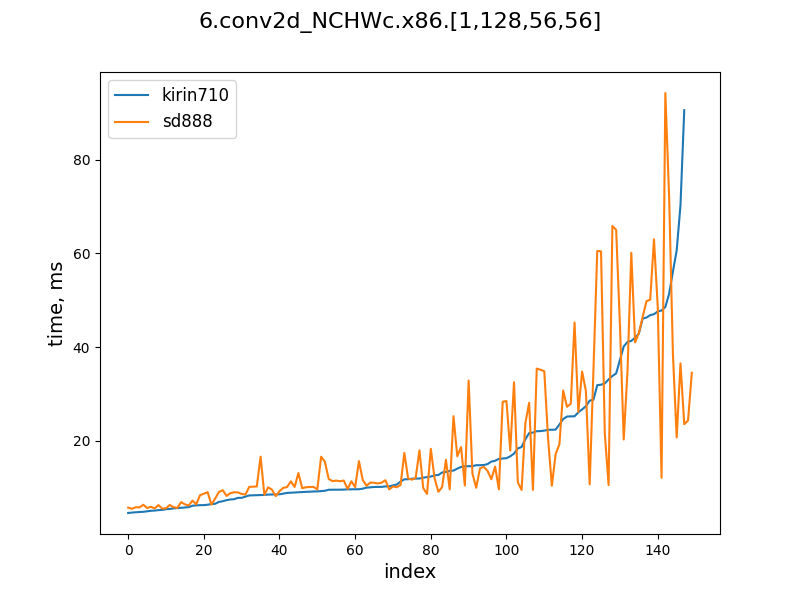
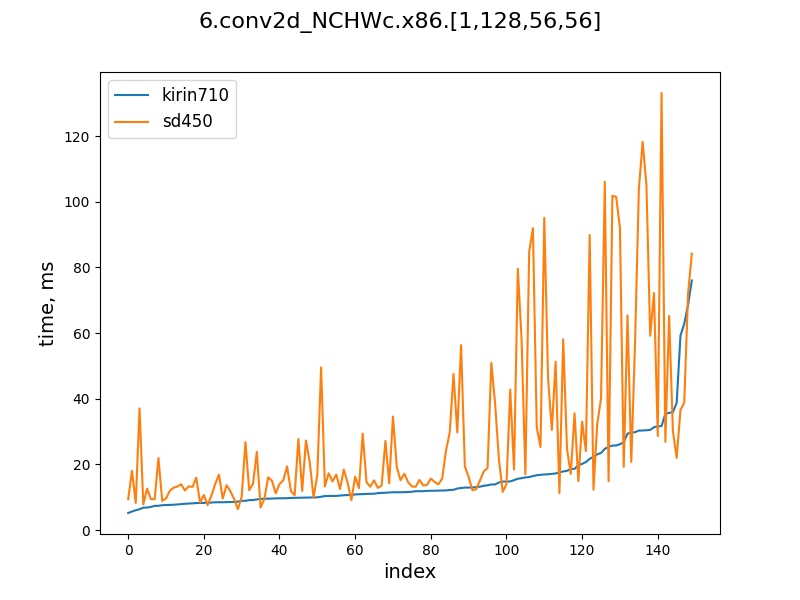
config-overlay mesure mode done

diff --git a/src/ferule/config_overlay/dispatcher.py b/src/ferule/config_overlay/dispatcher.py
@@ -13,6 +13,10 @@ from tvm.target import Target
 from ..model_importer import ModelImporter
 
 
+def tupleit(t):
+    return tuple(map(tupleit, t)) if isinstance(t, (list, tuple)) else t
+
+
 class Tuner(Enum):
     UNKNOWN = "unknown",
     ATVM = "atvm",
@@ -33,14 +37,11 @@ class Layer:
             input = self.configs[0]['input']
             target, task_name, args, _ = input
             
-            data, kernel, strides, padding, dilation, data_layout, _, dtype = args
-            data = relay.var("data", shape=data[1], dtype=dtype)
-            kernel_size = (kernel[1][2], kernel[1][3]) if data_layout == "NCHW" else (kernel[1][1], kernel[1][2])
-            kernel = relay.var("kernel", shape=kernel[1], dtype=dtype)
-
-            self.out = relay.nn.conv2d(data, kernel, strides=strides, padding=padding, dilation=dilation, kernel_size=kernel_size, 
-                data_layout=data_layout, out_dtype=dtype)
-            self.mod = IRModule.from_expr(self.out)
+            args = tupleit(args)
+            for task in self.hf.tasks:
+                if args == task.__dict__['args']:
+                    self.task: autotvm.task.task.Task = task
+                    return
         
         elif self.tuner == Tuner.ANSOR:
             workload_key, target, _, target_host, _, _ = self.configs[0]['i'][0]
@@ -50,7 +51,7 @@ class Layer:
                     self.task: auto_scheduler.SearchTask = task
                     return
             
-            raise RuntimeError("Workload key %s not found in model %s." % (str(self.workload_key), self.hf.model))
+            raise RuntimeError("Workload key %s not found in model %s." % (str(workload_key), self.hf.model))
 
     @property
     def name(self) -> str:
@@ -63,8 +64,6 @@ class Layer:
         return self.tuner.name        
 
     def __hash__(self) -> int:
-        def tupleit(t):
-            return tuple(map(tupleit, t)) if isinstance(t, (list, tuple)) else t
         if self.tuner == Tuner.ATVM:
             tgt, task_name, task_args, task_kwargs = self.configs[0]["input"]
             return hash(tupleit((tgt, task_name, task_args)))
@@ -119,8 +118,12 @@ class HandleFile:
     def __post_init__(self):
         importer = ModelImporter()
         self.mod, self.params = importer(self.model, tuner="atvm" if self.tuner == Tuner.ATVM else "ansor", dtype=self.dtype)
-        self.tasks, self.task_weights = auto_scheduler.extract_tasks(
-                self.mod["main"], self.params, target=self.target)
+        if self.tuner == Tuner.ATVM:
+            self.tasks = autotvm.task.extract_from_program(
+                self.mod["main"], target=self.target, params=self.params)
+        else:
+            self.tasks, self.task_weights = auto_scheduler.extract_tasks(
+                    self.mod["main"], self.params, target=self.target)
 
         self.full_layer_list: tp.List[Layer] = []
         with open(self.file) as inf:
@@ -149,6 +152,9 @@ class HandleFile:
                         self.full_layer_list.append(Layer(self))
                         layer_index += 1
                     self.full_layer_list[-1].add_config(layer_config)
+            
+            if self.full_layer_list != []:
+                self.full_layer_list[-1].create_task()
         
         self.layers = OrderedSet()
         for layer in self.full_layer_list:

diff --git a/src/ferule/config_overlay/plotter.py b/src/ferule/config_overlay/plotter.py
@@ -11,6 +11,7 @@ import pandas as pd
 import numpy as np
 
 import tvm
+from tvm.autotvm import task
 from tvm.contrib import utils
 
 from ..executor import Executor
@@ -58,11 +59,15 @@ def mesure_and_draw_co_graph(layer: Layer, executors: tp.Sequence[Executor], ind
     if layer.tuner == Tuner.ATVM:
         for config_idx in tqdm(range(len(layer.configs)),  desc='Layer %d' % index):
             with silence():
+                with open(tmp.relpath('config.json'), 'w') as conf:
+                    json.dump(layer.configs[config_idx], conf)
+                config = task.space.ConfigEntity.from_json_dict(layer.configs[config_idx]['config'])
+                with executors[0].target:
+                    schedule, args = layer.task.instantiate(config)
+                mod = tvm.lower(schedule, args)
+                executors[0].compile_autotvm(mod, None, tmp.relpath('config.json'), tmp.path)
                 for layer_idx, executor in enumerate(executors):
-                    with open(tmp.relpath('config.json'), 'w') as conf:
-                        json.dump(layer.configs[config_idx], conf)
-                    executor.compile_autotvm(layer.mod, None, tmp.relpath('config.json'), tmp.path)
-                    data[config_idx][layer_idx]  = executor.benchmark()
+                    data[config_idx][layer_idx]  = executor.xbenchmark(args, layer.hf.dtype, tmp.relpath('config.so')) 
     
     if layer.tuner == Tuner.ANSOR:
         for config_idx in tqdm(range(len(layer.configs)),  desc='Layer %d' % index):
@@ -75,9 +80,8 @@ def mesure_and_draw_co_graph(layer: Layer, executors: tp.Sequence[Executor], ind
                     continue
                 mod = tvm.lower(schedule, args)
                 executors[0].compile_ansor(mod, None, tmp.relpath('config.json'), tmp.path)
-                input = json.loads(layer.configs[config_idx]['i'][0][0])[1:]
                 for layer_idx, executor in enumerate(executors):
-                    data[config_idx][layer_idx]  = executor.xbenchmark(input, layer.hf.dtype, tmp.relpath('config.so'))     
+                    data[config_idx][layer_idx]  = executor.xbenchmark(args, layer.hf.dtype, tmp.relpath('config.so'))           
     
     tmp.remove()
     df = pd.DataFrame(data, columns=[executor.key for executor in executors]).sort_values(executors[0].key)
@@ -89,9 +93,9 @@ def mesure_and_draw_co_graph(layer: Layer, executors: tp.Sequence[Executor], ind
     plt.ylabel("time, ms", fontsize=14)
     plt.plot(df)
     plt.legend(df.columns, prop={'size': 12})
-    if not os.path.exists(os.path.join(output_dir, layer.tuner.value)):
-        os.makedirs(os.path.join(output_dir, layer.tuner.value))
-    plt.savefig(os.path.join(output_dir, layer.tuner.value, name + ".png"))
+    if not os.path.exists(os.path.join(output_dir, *layer.tuner.value)):
+        os.makedirs(os.path.join(output_dir, *layer.tuner.value))
+    plt.savefig(os.path.join(output_dir, *layer.tuner.value, name + ".png"))
     plt.close()
 
 @contextlib.contextmanager

diff --git a/src/ferule/executor.py b/src/ferule/executor.py
@@ -23,7 +23,6 @@ class Executor:
         self.target = Target(target, host=target_host)
         self.host, self.port, self.key = host, port, key
         self.tuner, self.method = tuner, method
-        
 
     def _connect_tracker(self):
         from tvm import rpc
@@ -83,8 +82,10 @@ class Executor:
         with autotvm.apply_history_best(log_file):
             print("Compile...")
             with transform.PassContext(opt_level=3):
-                lib = relay.build_module.build(
-                    mod, target=self.target, params=params)
+                if params is not None:
+                    lib = relay.build_module.build(mod, target=self.target, params=params)
+                else:  # compile one task layer
+                    lib = tvm.build(mod, target=self.target)
         self.lib_path = os.path.join(lib_dir, os.path.basename(log_file).rstrip('.json ') + '.so')
         print("Source object was compiled at %s" % self.lib_path)
         lib.export_library(self.lib_path, ndk.create_shared)
@@ -135,15 +136,11 @@ class Executor:
         ftimer = m.module.time_evaluator("run", ctx, repeat=10, min_repeat_ms=500)
         prof_res = np.array(ftimer().results) * 1e3  # convert to millisecond
         mean_res, std_res = np.mean(prof_res), np.std(prof_res)
-        print(
-            "Mean inference time (std dev): %.2f ms (%.2f ms)" % (mean_res, std_res)
-        )
-
+        print("Mean inference time (std dev): %.2f ms (%.2f ms)" % (mean_res, std_res))
         self._disconnect_tracker()
-
         return np.mean(prof_res)
 
-    def xbenchmark(self, input, dtype: str = "float32", input_path=None) -> float:
+    def xbenchmark(self, args: tp.Sequence[tvm.te.tensor.Tensor], dtype: str = "float32", input_path=None) -> float:
         if self.remote is None:
             self._connect_tracker()
 
@@ -156,16 +153,13 @@ class Executor:
         ctx = self.remote.cpu(0)
 
         inputs = []
-        for shape in input:
+        for tensor in args:
+            shape = [int(j) for j in tensor.shape]
             inputs.append(tvm.nd.array(np.random.uniform(size=shape).astype(dtype), ctx))
 
         time_f = lib.time_evaluator(lib.entry_name, ctx, number=10)
         prof_res = np.array(time_f(*inputs).results) * 1e3  # convert to millisecond
         mean_res, std_res = np.mean(prof_res), np.std(prof_res)
-        print(
-            "Mean inference time (std dev): %.2f ms (%.2f ms)" % (mean_res, std_res)
-        )
-
+        print("Mean inference time (std dev): %.2f ms (%.2f ms)" % (mean_res, std_res))
         self._disconnect_tracker()
-
         return np.mean(prof_res)

diff --git a/README.md b/README.md
@@ -8,7 +8,7 @@ A feature of the project is that it uses the functionality of the [TVM](https://
 ## Quickstart
 Run the following code inside the repository
 ```console
-foo@bar:~$ python -m pip install --upgrade pip build setuptools
+foo@bar:~$ python -m pip install --upgrade pip build
 foo@bar:~$ python -m build --sdist --wheel
 foo@bar:~$ python -m pip install . --prefer-binary --force-reinstall --find-links dist/
 ```
@@ -35,8 +35,16 @@ Additionally, there is `~$ cross-compile view` command that displays the path to
 ## config-overlay
 This command allows you to visually evaluate and compare the quality of tuning on each layer.
 ```console
-foo@bar:~$ config-overlay `cross-compile view`/logs/*mobilenet_v1.float32.atvm.json
+foo@bar:~$ config-overlay sd450.mace_mobilenet_v1.float32.atvm.json -k kirin710 -k sd450 -p 9090 --layer 6
 ```
-<img src="img/6.conv2d_NCHWc.x86.%5B1%2C128%2C56%2C56%5D.png" alt="output" width="80%" class="center"/>
+<table class="table table-bordered table-hover table-condensed">
+<thead><tr><th title="Field #1">AutoTVM</th>
+<th title="Field #2">Auto-Scheduler</th>
+</tr></thead>
+<tbody><tr>
+<td><img src="img/6.conv2d_NCHWc.x86.%5B1%2C128%2C56%2C56%5D.png" alt="atvm"/></td>
+<td><img src="img/13.[1,1024,1,1,1].[1001,1024,1,1,1,1].[1,1001,1,1,1].[1,1001,1,1,1].png" alt="ansor"/></td>
+</tr>
+</tbody></table>
 
 On the chart, the indices are sorted by the inference time of the first specified layer. It is easy to see that after sorting one of the graphs, the rest also show growth.
